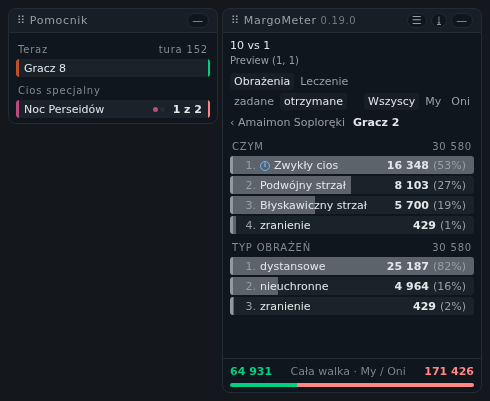
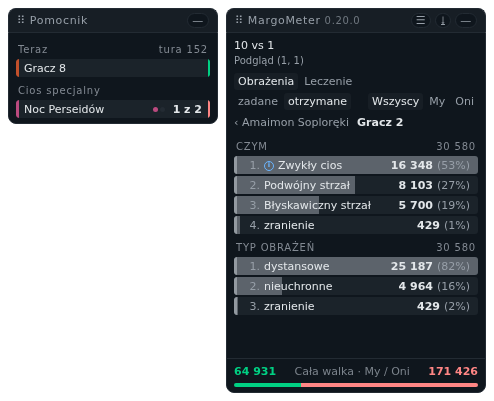
build(release): 0.20.0, the rewritten add-on and the four things it does differently
Four entries under one number, one **Zmiana** and three **Poprawka**,
moved from `[Niewydane]` unchanged. This is the first release of the
tree the rewrite of 2026-09 built from nothing (8567cee). It is meant
to draw what fa1dcce drew, and a player meets it in four places:
- a moment of the fight it cannot read is still counted, and said;
- a kept fight it cannot read is named by day and place;
- a bandage that raises resistances is read whole;
- when the game cannot be reached, the panel still stands up and says
  so.

THE AUDIT, run as `docs/releasing.md` step 1 orders it, against
`git show v0.19.0:<path>`:

  - The three **Poprawka** entries each name a defect v0.19.0 had:
    `handlePayload` skipped the draw on a throw
    (`src/userscript-entry.ts:1785`), a kept fight that would not
    replay drew the empty-shelf line (`:684`), and `resfire_per`,
    `resfrost_per` and `reslight_per` were not in `DECLARATION_KEYS`
    (`src/core/fight-decoder.ts:264-330`).
  - One change had no entry: the `engine` defect and the panel put up
    when the search for the game is refused or runs out. It became
    the **Zmiana** (fd64ff2), and the number is a minor one.
  - One undocumented floor change: `Object.hasOwn` raised Firefox from
    91 to 92, written down in 68d3cc0, with no entry.
  - Two fixes stay out of the changelog. b5ffffb draws at once a
    hover-card defect that v0.19.0 drew at the next payload. 8fb00f9
[…]

diff --git a/CHANGELOG.md b/CHANGELOG.md
@@ -37,7 +37,7 @@ Wszystkie istotne zmiany w tym dodatku są tu notowane.
 > wszystko może się zmienić w każdej chwili. Do czasu `1.0.0` czytaj wpisy oznaczone **Zmiana**
 > przed aktualizacją.
 
-## [Niewydane]
+## [0.20.0] — 2026-09-27
 
 - **Zmiana** — Gdy dodatek nie zdoła połączyć się z grą, panel i tak się pojawia i mówi, że nie
   widzi walki, zamiast w ogóle się nie pokazać.
